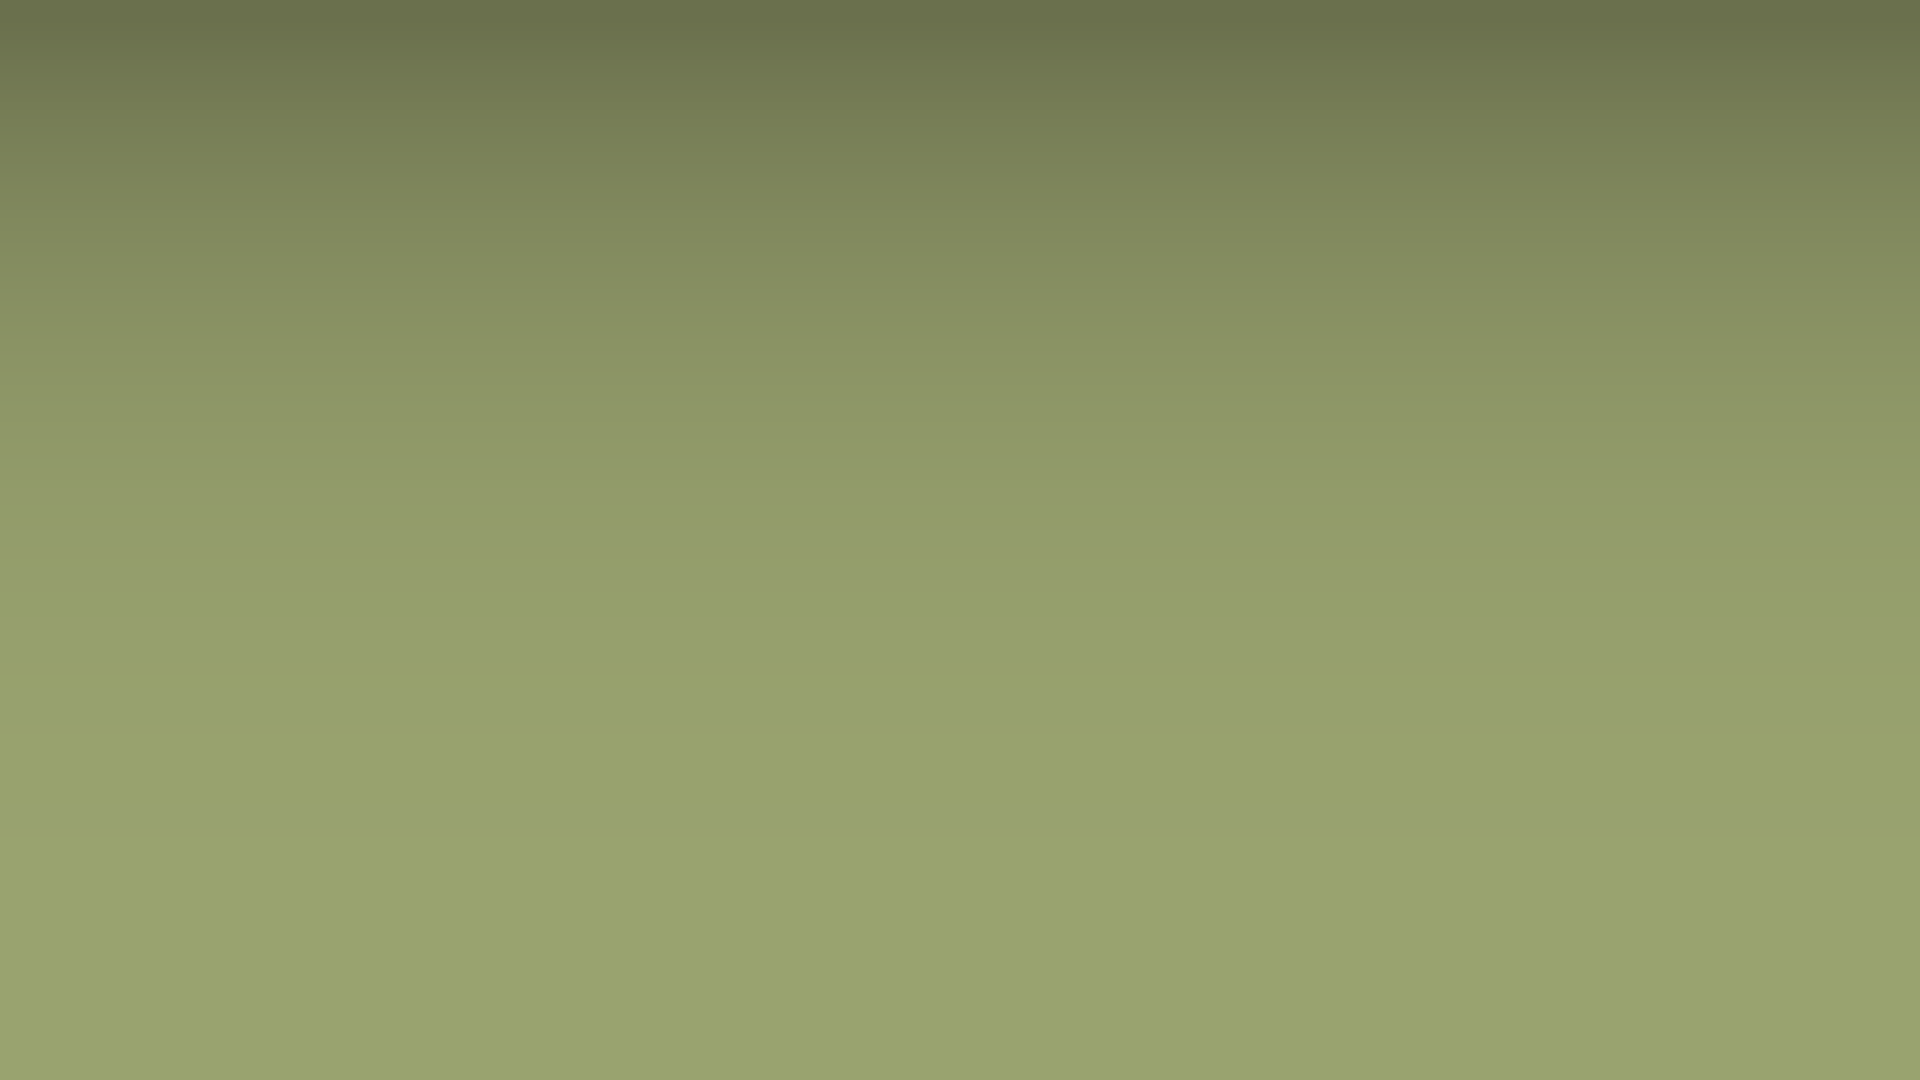
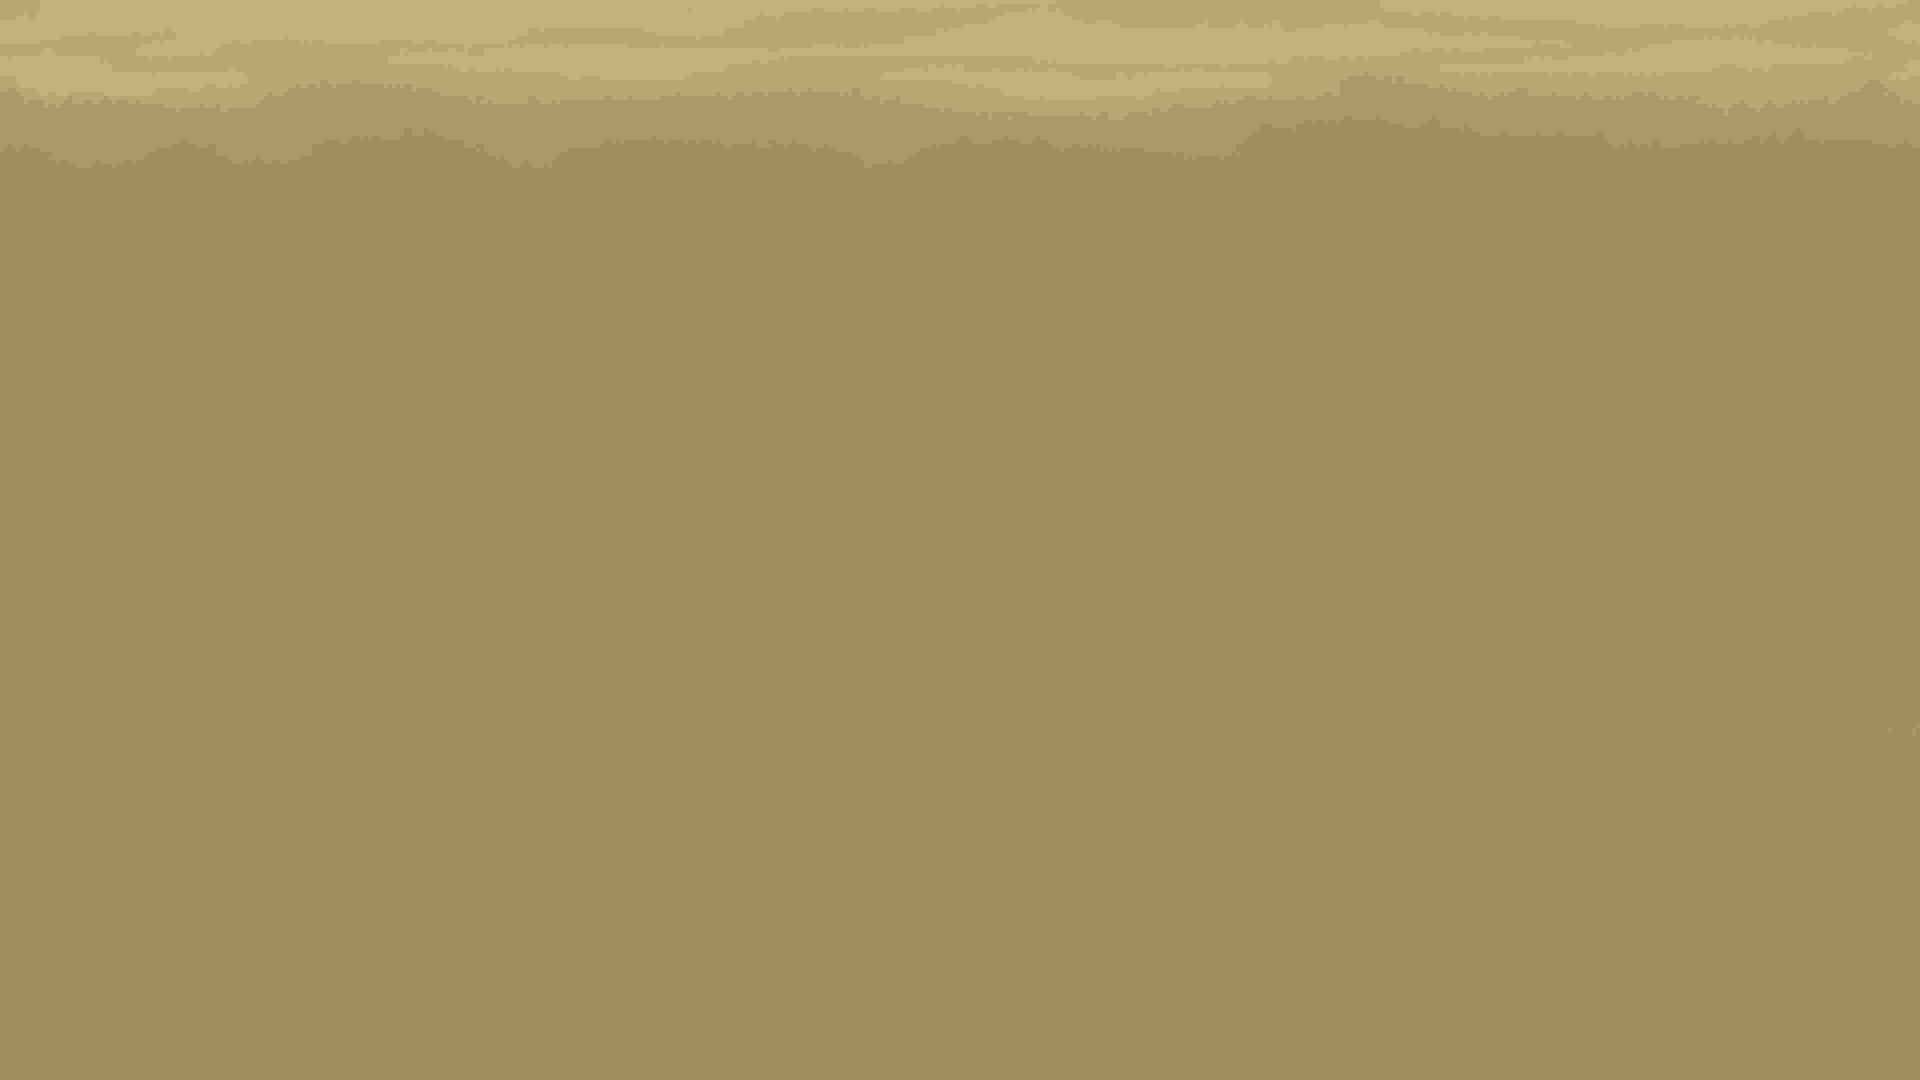
Cambiando assets

Changed region(s): [[0.0, 0.0, 1.0, 0.275]]

diff --git a/dino_runner/components/game.py b/dino_runner/components/game.py
@@ -2,17 +2,18 @@ import pygame
 import random
 from dino_runner.components.dinosaur import Dinosaur
 from dino_runner.components.cloud import Cloud
-
+from dino_runner.components.faros import Faros
 from dino_runner.utils.constants import (
     BG,
     ICON,
     SCREEN_HEIGHT,
     SCREEN_WIDTH,
     TITLE,
-    FPS, BACKGROUND,PINES,SKY
+    FPS, TRAKLINE1,SKY
 )
 
 class Game:
+
     def __init__(self):
         pygame.init()
         pygame.display.set_caption(TITLE)
@@ -22,22 +23,30 @@ class Game:
         self.playing = False
         self.game_speed = 20
         self.x_pos_bg = 0
-        self.y_pos_bg = -575
+        self.y_pos_bg =-450
         self.player = Dinosaur()
         self.sky_list = pygame.sprite.Group()
+        self.faro_list = pygame.sprite.Group()
+        
 
     def run(self):
         # Game loop: events - update - draw
         self.playing = True
         for i in range(5):
            cloud = Cloud()
-           cloud.rect.x = random.randrange(1100)
-           cloud.rect.y = random.randrange(50)
+           cloud.rect.x = random.randrange(0, 1100, 180)
+           cloud.rect.y = random.randrange(20)
            self.sky_list.add(cloud)
-    
+        
+
+        for i in range(40):
+           faros = Faros()
+           faros.rect.x = random.randrange(0, 1100, 180)
+           faros.rect.y = 305
+           self.sky_list.add(faros)
+            
         while self.playing:
-            for sky in self.sky_list:
-                sky.update()
+          
             self.events()
             self.update()
             self.draw()
@@ -50,31 +59,35 @@ class Game:
 
     def update(self):
         self.player.update(pygame.key.get_pressed())
+        for sky in self.sky_list:
+                sky.update()
+        for faro in self.faro_list:
+                faro.uupdate()
+            
         
        
 
     def draw(self):
         self.clock.tick(FPS)
         self.screen.fill((255, 255, 255))
+        self.faro_list.draw(self.screen)
         self.draw_background()
-        self.player.draw(self.screen)  
         self.sky_list.draw(self.screen)
+        self.player.draw(self.screen)
         pygame.display.update()
         pygame.display.flip()
        
+
     def draw_background(self):
-        image_width = BACKGROUND.get_width()
+        image_width = TRAKLINE1.get_width()
         self.screen.blit(SKY, (0,0))
-        self.screen.blit(PINES,  (self.x_pos_bg, self.y_pos_bg))
-        self.screen.blit(PINES, (image_width + self.x_pos_bg, self.y_pos_bg))
-        self.screen.blit(BACKGROUND, (self.x_pos_bg, self.y_pos_bg))
-        self.screen.blit(BACKGROUND, (image_width + self.x_pos_bg, self.y_pos_bg))
         
+        self.screen.blit(TRAKLINE1, (self.x_pos_bg, self.y_pos_bg))
         
-        
+        self.screen.blit(TRAKLINE1 ,(image_width + self.x_pos_bg, self.y_pos_bg))
+
         if self.x_pos_bg <= -image_width:
-            self.screen.blit(PINES, (image_width + self.x_pos_bg, self.y_pos_bg))
-            self.screen.blit(BACKGROUND, (image_width + self.x_pos_bg, self.y_pos_bg))
-            
+           
+            self.screen.blit(TRAKLINE1, (image_width + self.x_pos_bg, self.y_pos_bg))
             self.x_pos_bg = 0
         self.x_pos_bg -= self.game_speed

diff --git a/dino_runner/utils/constants.py b/dino_runner/utils/constants.py
@@ -69,9 +69,17 @@ BG = pygame.image.load(os.path.join(IMG_DIR, 'Other/Track.png'))
 
 HEART = pygame.image.load(os.path.join(IMG_DIR, 'Other/SmallHeart.png'))
 
-BACKGROUND = pygame.image.load(os.path.join(IMG_DIR, 'Other/7.png'))
+TRAKLINE1 = pygame.image.load(os.path.join(IMG_DIR, 'Other/trackline_1.png'))
+TRAKLINE2 = pygame.image.load(os.path.join(IMG_DIR, 'Other/trackline_2.png'))
+
 CLOUDS= pygame.image.load(os.path.join(IMG_DIR, 'Other/clouds_1.png'))
 PINES = pygame.image.load(os.path.join(IMG_DIR, 'Other/3.png'))
 SKY = pygame.image.load(os.path.join(IMG_DIR, 'Other/sky.png'))
+FAROS = [
+       pygame.image.load(os.path.join(IMG_DIR, 'Other/faro1.png')),
+       pygame.image.load(os.path.join(IMG_DIR, 'Other/faro2.png')),
+      
+
+        ]
 
 DEFAULT_TYPE = "default"

diff --git a/dino_runner/components/faros.py b/dino_runner/components/faros.py
@@ -1,0 +1,25 @@
+import pygame 
+import random
+from dino_runner.utils.constants import FAROS
+
+class Faros(pygame.sprite.Sprite):
+    def __init__(self):
+        super().__init__()  # Llamar al constructor de la clase base Sprite
+        self.image = FAROS[0]
+        self.image.set_colorkey([0, 0, 0])
+        self.rect = self.image.get_rect()
+        self.faros_range  = 500
+        self.faros_count = 0
+        
+
+    def update(self):
+        
+
+        
+        self.rect.x -= 5
+        if self.rect.x < 0:
+            self.faros_count += 1
+            self.rect.x = 1110
+            self.rect.y = 305
+            
+            self.image = FAROS[0] if self.faros_count % 2 == 0 else FAROS[1]

diff --git a/dino_runner/components/cloud.py b/dino_runner/components/cloud.py
@@ -10,7 +10,7 @@ class Cloud(pygame.sprite.Sprite):
         self.rect = self.image.get_rect()
 
     def update(self):
-        self.rect.x -= 1
+        self.rect.x -= 5
         if self.rect.x < -344:
             self.rect.x = 1110
-            self.rect.y = random.randrange(50)
+            self.rect.y = random.randrange(20)
